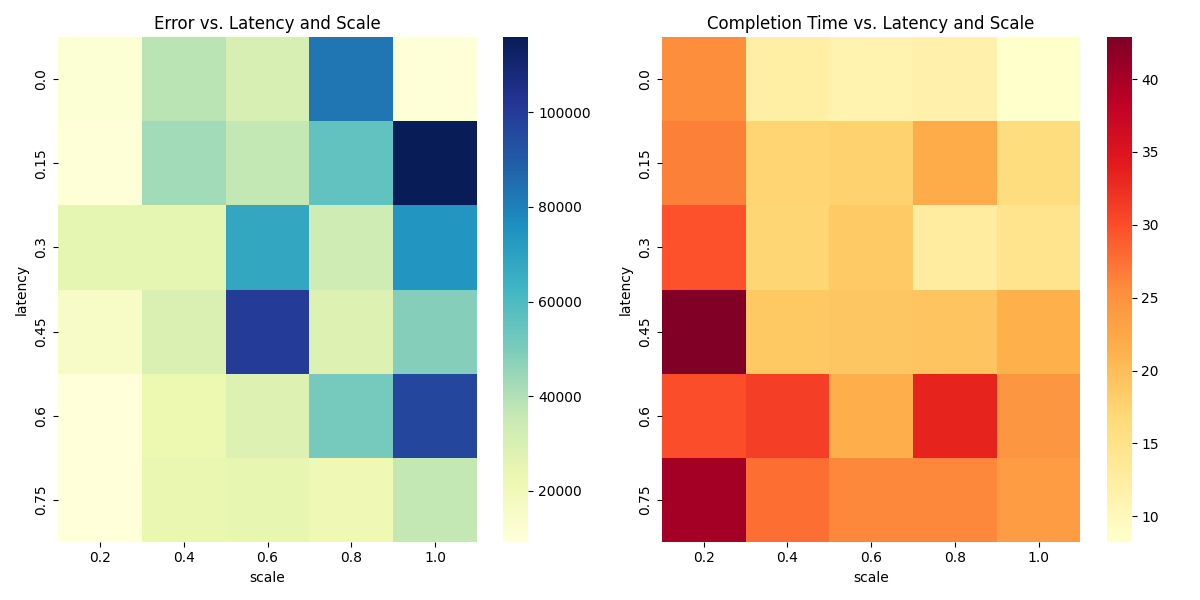
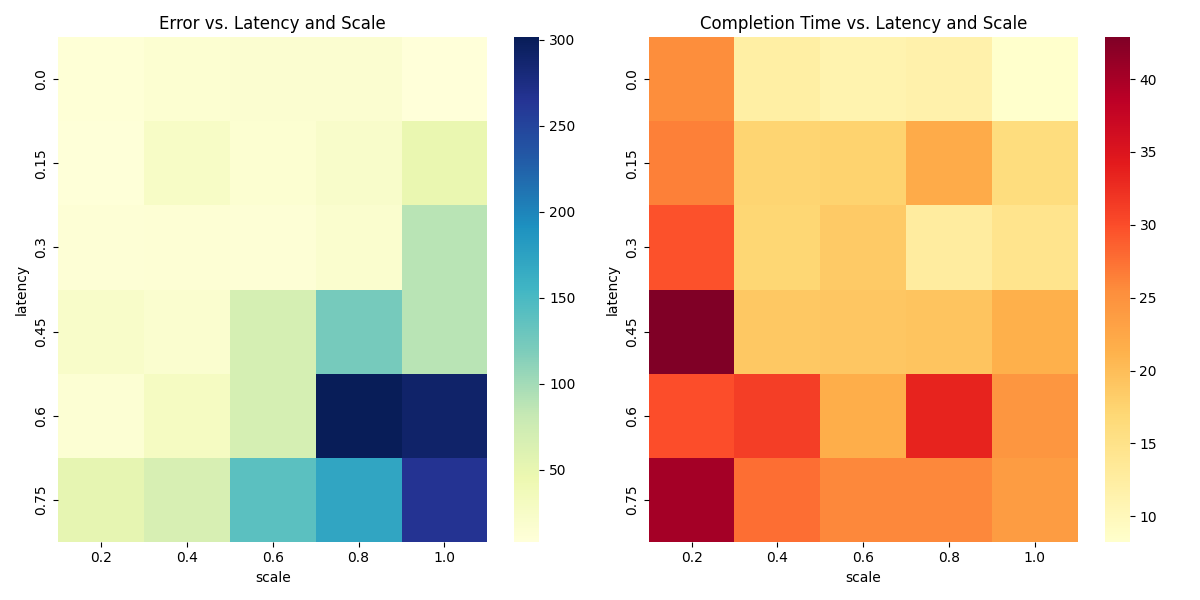
changed heatmap to overshoot distance

diff --git a/process.py b/process.py
@@ -65,7 +65,7 @@ def plot_heatmaps(metric_df):
     plt.tight_layout()
     plt.savefig('heatmaps_set1.png')
     # Show the plots
-    plt.show()
+    #plt.show()
 
 
 if __name__ == "__main__":
@@ -174,7 +174,7 @@ if __name__ == "__main__":
                 # for i in range(4):
                 #     print(f"Target error: {target_distances[i]}, Overshoot error: {overshoot_distances[i]}")
 
-                error_metric = c1 * sum(target_distances) + c2 * sum(esd_metric_set)
+                error_metric = c1 * sum(target_distances) + c2 * sum(overshoot_distances)
                 metric_data.append([latency, scale, error_metric, completion_time])
                 
     metric_df = pd.DataFrame(metric_data, columns=['latency', 'scale', 'error', 'completion_time'])
